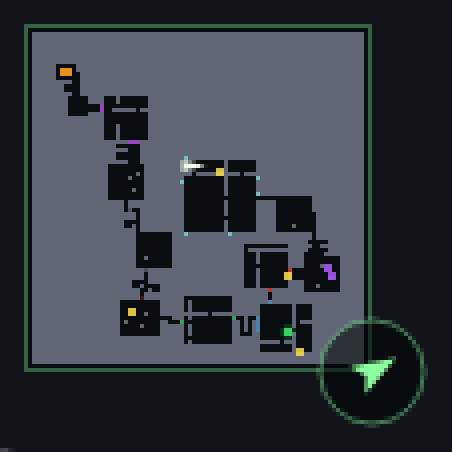
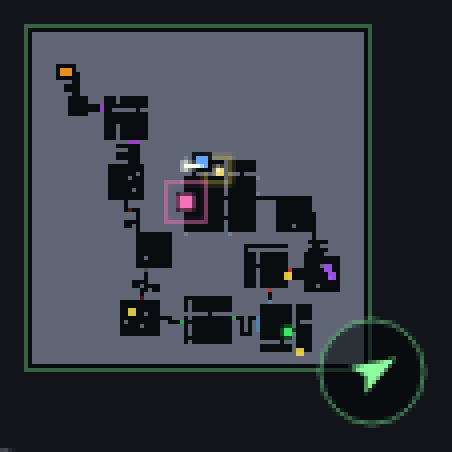
docs(coop): document the help ping and teammate markers, close the notes item
Player docs: the `G`/`Y` binding in controls.md and README, two new bullets in
multiplayer.md, a teammate row in both map legends in colors-and-pickups.md,
and the distinction between the two kinds of minimap ping (a key ping is gold
and sits still on a key; a help ping is that player's colour and moves with
them) wherever the existing one is described.

The committed map screenshots now show the markers. They are captured from a
single-player engine, whose roster is only ever the viewer, so this adds a
`debugSpawnTeammate` staging hook alongside the existing debug* ones and poses
two teammates — one of them calling for help. Two things the first attempt got
wrong and are worth not repeating: the pair have to be staged far apart (the
fixture is 83 tiles wide, which puts the minimap at its 1px cell floor, and the
first run photographed one marker completely underneath the other), and the
grab has to be phase-locked, because the ring's alpha sawtooths to zero at the
end of every sweep and the first automap capture came back with no ring at all.

hud-and-ui.md said "Three warning toasts ... each on its own row"; nothing pins
that sentence, so nothing would have failed. The netcode spec's §6 gains the
counter-example section — every other entry there is about a signal that must
be stripped from the shared stream, and this is the one added to join it. The
game-state spec records why teammates are the single shared marker that is not
[…]

Changed region(s): [[0.3407, 0.3097, 0.5265, 0.4956]]

diff --git a/doc/dev/history.md b/doc/dev/history.md
@@ -11,6 +11,15 @@ That second category is why this file is kept rather than deleted. Most entries 
 
 Entries are newest-first, in the format the `notes` backlog uses. Nothing here is edited for hindsight — an entry that was wrong at the time stays wrong, with a later correction appended, so the reasoning trail survives intact.
 
+- [x] **Teammate map markers, and a hotkey to call for help (2026-08-23).** From `notes`: *"coop: give players a hotkey to trigger a map ping on themself, to get help. should last for some seconds."* The one-liner's premise had moved in both directions, which is the usual outcome for that section.
+  - **Half of it already existed.** `KEY_PING_FRAMES = 240` carries the comment *"the 'for some seconds' of the request"*, and the locked-door hint already had a sonar-ring renderer and an audible cue. The state shape, the ring, and the decay loop were all copied rather than invented.
+  - **The other half was missing at a level the request did not suspect: nothing drew teammates on either map at all.** `colorForPlayer` was documented as feeding "teammate billboards/minimap dots" and had exactly one caller — the 3D billboard. `sprites.ts` (twice), `multiplayer-game-state-spec.md` §5 and, worst, shipped `CHANGELOG.md:80` (*"the same colour your dot already has on the automap and minimap"*) all told players the dots existed. So the ping would have been a five-second workaround for a permanent gap. Persistent dots shipped first, with the ping as a loud transient state of the dot; the shipped changelog line was left alone and a new entry added rather than rewriting history.
+  - **No new wire message, and none was the right call.** The session is deterministic lockstep, so `helpPing` rides `InputSnapshot` exactly as `interact`/`reload` do and inherits ordering, spoof-proof identity, rate limiting and identical cross-peer timing. Host, guest, bundle and channel source files are untouched. A separate `reconciliation`-channel message would have needed its own `levelEpoch` guard, its own limiter, and would land on a different tick on each peer.
+  - **Two traps, both found by review rather than by running it.** (1) `consume*()` does not consume in multiplayer — `NetworkInputSource`'s methods are non-clearing reads, and `InputDelayBuffer.finalize()` re-delivers the previous snapshot verbatim on a missing packet, so one press arrives as `true` on every held-fallback tick. The cooldown alone does not hold: it expires at 480 frames and the siren would restart there forever. Fixed with a per-player false->true latch, and pinned by a test that holds the bit for 600 frames. (2) The arm has to run *before* `simulate()`'s `ablate`/pause/lore early returns, or a `G` pressed during any of them never clears in single-player and sticks `true` into every later `captureSnapshot()`.
+  - **The notice is a top-left chip, not a fourth centered toast row.** The 26/56/86 stack makes y=116 look free and it is not: `drawLockedDoorToast` is 42px tall whenever it carries its second line (~71% of doors, so the common case) and runs to y=128, `drawKillStreakToast` sits at y=112 at the shipped 640x400, and at `?renderRes=320x200` the HUD bar starts at 128. Caught by measuring rather than by the arithmetic.
+  - **Teammates are the one shared marker deliberately not fog-gated**, against the precedent the loot drops set one section earlier in the spec. A person is not level content, and the teammate you need to find is by definition the one somewhere you have not walked. Recorded in the spec so it reads as a decision.
+  - Smaller things worth knowing: the audible cue is an alternating two-tone square siren because a *low falling triangle* — the obvious choice — is already taken three times over, including by `playHit`, the most frequent sound in the game. Teammate dots get a dark surround because `PLAYER_COLORS` holds a green next to the exit marker's and an amber next to the key gold. And the two committed map screenshots needed a `debugSpawnTeammate` staging hook plus a phase-locked grab: the ring's alpha sawtooths to zero at the end of every sweep, and the first automap capture came back with the ring invisible. `[notes: coop map ping hotkey]`
+
 - [x] **A level that outguns you, sold as a co-op level (2026-08-22).** From `notes`: *"'sell' unclearable levels as 'come back in coop' in docs/tips"*. Docs only — one tip, one hedge, one multiplayer bullet, one stale spec paragraph.
 
   **The premise was right and the word was wrong, which changed what the tip says.** In this project's telemetry `unclearable` means `clearRatio combined < 1.0` — obtainable damage below total roster HP. That is *not* "cannot finish": `checkExit` gates only on `exitRoomHasAliveEnemy()`, so every enemy outside the exit room can be walked past, and `decisions.md`'s Elite finding already proved players do exactly that ("all 514 cleared runs on an Elite-bearing level left the Elite alive"). So the tip leads with the more useful half — *try the exit before assuming you are stuck* — and only then offers co-op.

diff --git a/doc/user/colors-and-pickups.md b/doc/user/colors-and-pickups.md
@@ -10,7 +10,7 @@ Everything here is fixed. It never changes with the level's styleset, the diffic
 
 The always-on panel in the corner. No fog-of-war: the layout is all there from the moment the level loads.
 
-![The corner minimap, with four gold key markers, an orange acid pool at the top left, violet teleporter pads, cyan lore terminals, coloured door tiles, the green exit at the bottom right, and the compass badge on its corner](img/minimap.png)
+![The corner minimap, with four gold key markers, an orange acid pool at the top left, violet teleporter pads, cyan lore terminals, coloured door tiles, the green exit at the bottom right, the compass badge on its corner, a blue teammate dot beside the white player triangle, and a pink teammate wrapped in a sweeping ring because they are calling for help](img/minimap.png)
 
 | What you see | Colour | Meaning |
 |---|---|---|
@@ -25,6 +25,8 @@ The always-on panel in the corner. No fog-of-war: the layout is all there from t
 | Lore terminal | pulsing cyan | stops pulsing once you've read it |
 | Exit | pulsing green | always visible, from the moment the level loads |
 | You | near-white triangle | the point of the triangle is the way you're facing |
+| Teammates | their own player colour, on a dark surround | multiplayer only; the same colour their name floats in above them in the world |
+| A teammate calling for help | their colour, brightened, with a sweeping ring | multiplayer only — see [Multiplayer](multiplayer.md) |
 | Enemies | their own body colour | gold Elite, cyan Edge Case — but only once spotted |
 
 Two of those will catch you out, so they're worth stating plainly:
@@ -33,7 +35,11 @@ Two of those will catch you out, so they're worth stating plainly:
 
 **A key marker is gold no matter which key it is.** All four colours show up identically here, so the panel tells you *where* a key is, not *which* one. The colour you're missing is on the HUD key pips, and on the door itself.
 
+The dark surround behind a teammate dot is doing real work: the player colours include a green very close to the exit marker's and an amber very close to the key gold, so the outline is what stops a person reading as a place you can walk to.
+
 Keys **ping** on the minimap: the marker brightens and a sonar ring sweeps out of it for a few seconds. Two things set that off — walking into a locked door you have no key for, and simply passing a room that still holds a key you can reach. "Reachable" means by walking distance, counting doors you already hold the key for. When the key you were asked for is itself locked away, the ping deliberately points at the key that unblocks it instead, so what pings is always somewhere you can go next.
+
+A teammate calling for help pings the same way but is never confusable with it: a key ping is gold and sits still on a key, a help ping is that player's own colour and moves with them, and it comes with a siren instead of the key ping's soft chime.
 
 ## Reading the automap
 
@@ -41,7 +47,7 @@ Keys **ping** on the minimap: the marker brightens and a sonar ring sweeps out o
 
 Structural things go greyscale here so the map doesn't fight the live game still rendering behind it; danger and goals keep their accent colours.
 
-![The Tab automap, drawn in greyscale over the live 3D view: the level's rooms and corridors in light grey, an orange acid pool at the top left, the gold player arrow in the middle, and red, blue and green locked-door tiles](img/automap.png)
+![The Tab automap, drawn in greyscale over the live 3D view: the level's rooms and corridors in light grey, an orange acid pool at the top left, the gold player arrow in the middle, red, blue and green locked-door tiles, a blue teammate dot next to the player and a pink teammate ringed because they are calling for help](img/automap.png)
 
 That shot is of a level that has been walked from end to end. Early on you'd see far less of it — and the game showing through behind is not an artefact of the picture: the automap really is translucent, and really does leave you able to walk and fight while it's up.
 
@@ -58,6 +64,7 @@ That shot is of a level that has been walked from end to end. Early on you'd see
 | Proximity mine | bright red `#ff5050` | |
 | Exit | green `#41ff6e` | once discovered |
 | You | warm gold `#ffd23f` | the one warm colour, so it never blends into terrain or accents |
+| Teammates | their own player colour, on a dark surround | multiplayer only; brightened and ringed while one is calling for help |
 
 The two differences from the corner minimap:
 

diff --git a/doc/dev/multiplayer-game-state-spec.md b/doc/dev/multiplayer-game-state-spec.md
@@ -623,6 +623,38 @@ document's own §3 prerequisite: `visited` staying a single shared structure is 
 fewer piece of state that needs to become "per player" alongside `Player`/health/
 ammo/weaponIndex.
 
+### Teammate markers, and why they are *not* fog-gated
+
+Shipped after the loot drops above and deliberately on the opposite rule, so the
+inconsistency is a decision rather than an oversight.
+
+`renderMinimap` and `drawAutomap` each take a `TeammateMapMarker[]`
+(`sprites.ts`) — position, that player's `colorForPlayer` colour, and whether
+their coop help ping is live. Same call-site gating discipline as the loot drops:
+the renderers stay roster-unaware, and `collectTeammateMapMarkers` needs no
+`isMultiplayerSession()` check of its own because single-player's roster is only
+ever the viewer, who is skipped, so it returns `[]` naturally.
+
+**They are drawn regardless of `map.visited`.** Every other multiplayer-shared
+marker on these panels is fog-gated, for the reason set out above: a marker in an
+unvisited room leaks the *level*. A teammate is not level content. Their dot says
+where a person is standing and nothing whatsoever about the tiles around them,
+they are already visible in the 3D view with a name label above them, and the
+entire purpose of putting a team on a map is answering "where is everybody" —
+which a fog gate would defeat precisely when it matters, since the teammate you
+need to find is by definition the one somewhere you have not been.
+
+The colour is `colorForPlayer`'s, the same one the 3D billboard and name label
+use, which is what finally makes `sprites.ts`' long-standing "reused for their
+automap/minimap dot too" comment true. Every dot is drawn on a dark surround:
+`PLAYER_COLORS` contains a green adjacent to the exit marker's and an amber
+adjacent to the key gold and the automap's own player arrow, so hue alone cannot
+carry "person, not place".
+
+The help ping itself (`InputSnapshot.helpPing`, `RaycasterEngine.armHelpPings`)
+is specified in `multiplayer-netcode-spec.md` §6 — it is an input-stream
+question, not a visibility one.
+
 ### Not addressed here, on purpose
 
 Whether a `weapon`-kind drop should get a visually distinct marker from an ammo
@@ -798,8 +830,9 @@ billboard pass** (a new `collectPlayerBillboards` alongside the enemy/item
 collectors — occlusion via the zBuffer comes free). The local player is the
 camera and is never billboarded. HUD, viewmodel, crosshair targeting, and the
 automap/minimap player *marker* are strictly local-player; teammates appear on
-minimap/automap as distinct-colored markers (team-shared knowledge, same spirit
-as §5). Audio stays local-perspective; remote players' shots may play sounds
+minimap/automap as distinct-colored markers (team-shared knowledge — see §5's
+"Teammate markers" subsection, which also records why these are the one shared
+marker that is *not* fog-gated). Audio stays local-perspective; remote players' shots may play sounds
 (cosmetic, `Math.random` pitch variance stays fine — it never feeds the sim).
 `damage()`'s own hit SFX is the one deliberate exception to "local-perspective
 means everyone hears everything": it's scoped to whoever the local peer is

diff --git a/doc/user/hud-and-ui.md b/doc/user/hud-and-ui.md
@@ -22,7 +22,7 @@ If you enter a cheat code, a badge appears here and stays for the rest of the ca
 
 A second badge, in amber, counts the **rollbacks** your run has left (see [Dying](mechanics.md#dying)); it disappears once you've spent them all, since a bar reading "0 rollbacks" is just noise — so on Hard, which gets none, it never appears. If a run somehow has both — cheats entered *and* rollbacks in hand — the two stack rather than overlapping, with the rollback count sitting above the cheat warning.
 
-Three warning toasts share the top of the screen, each on its own row so they never cover each other when more than one fires at once: "Out of ammo!" on the first, "Memory leak — acid rising!" on the second, and "You need the red key!" — walking into a key-locked door empty-handed — on the third, naming the colour you're missing and drawn in that door's own colour.
+Three warning toasts share the top of the screen, each on its own row so they never cover each other when more than one fires at once: "Out of ammo!" on the first, "Memory leak — acid rising!" on the second, and "You need the red key!" — walking into a key-locked door empty-handed — on the third, naming the colour you're missing and drawn in that door's own colour. A fourth message, "<name> NEEDS HELP", sits on its own under the minimap in the top-left rather than joining that stack — see [Multiplayer](multiplayer.md).
 
 ## Minimap & Compass
 
@@ -31,6 +31,8 @@ An always-on minimap sits in the corner, showing the full layout of the current 
 Every colour on this panel is listed in [Colours & Pickups](colors-and-pickups.md#reading-the-corner-minimap) — including the two that surprise people: acid reads orange here but green in the world, and an uncollected key is gold whichever key it is.
 
 Walking into a key-locked door with no key **pings** a key here for a few seconds: its marker brightens and a sonar ring sweeps outward from it, with a soft ping per beat, so you can tell which of several uncollected keys the game is pointing you at. **It always points at something you can actually get to.** If the key you asked for is behind another locked door — which it often is, because keys come in a chain — it pings the key that unblocks it instead, and the banner names that colour. The ring is clipped to the panel, so a key near an edge doesn't sweep out over the view.
+
+In multiplayer the panel also shows your teammates, each a dot in their own colour, and a **second kind of ping**: when somebody presses `G` to call for help, *their* dot brightens and sweeps a ring in their own colour, with a siren rather than the key ping's soft chime and a banner naming them under the panel. Two things tell them apart at a glance — a key ping is always gold and always sits on a key, a help ping is whatever colour that player is and moves with them.
 
 ## Automap
 

diff --git a/CHANGELOG.md b/CHANGELOG.md
@@ -2,6 +2,8 @@
 
 ## Unreleased
 
+- New: **you can see your team on the map, and shout for help.** In multiplayer every teammate is now a dot on your minimap and automap, in the same colour their name floats in above them in the world — which is what the game has been telling you for a while and, until now, was not actually true anywhere. Pressing `G` (or `Y` on a pad) calls for help: your dot lights up on everyone else's map for about five seconds, sweeping a sonar ring in your colour, with a siren and a banner naming you under their minimap. The marker **follows you**, so it still points at you if you are being chased rather than at the spot you pressed it, and there is roughly an eight-second wait before you can call again. Teammates are the one thing on the automap fog of war does not hide — the whole point is finding somebody in a part of the level you have not walked yet. Nothing changes in single-player, where the key does nothing
+
 - Fixed: **text on the pop-up screens is no longer squashed to fit.** The Kernel Panic, Build Successful, briefing and summary boxes were a fixed width, and any line too long for one was squeezed narrower rather than given more room — so the death screen that offers you a rollback, whose lines are the longest in the game, rendered them noticeably compressed against the edges of the box. The boxes now grow to whatever their text actually needs, up to the width of the window. Screens whose text already fitted look exactly as they did
 
 - New: **the death screen now has an opinion about cheating.** The HUD has always stamped a warning on a run once you use one of the cheat codes, so you know the score will not be recorded — but the Kernel Panic screen itself said exactly the same thing to a cheating player as to anyone else. Die with a cheat behind you and it now has one extra line for you. You will have to earn it. The screen is untouched for everyone else, the line stays out of the way when the death is one you can roll back from, and nothing about how the game plays or scores has changed

diff --git a/doc/dev/multiplayer-netcode-spec.md b/doc/dev/multiplayer-netcode-spec.md
@@ -1163,6 +1163,35 @@ too — no role-based exception.
   reasonable UX nicety. Not specifying it as a requirement — silently having no
   effect is a complete, correct fix on its own; the toast is polish.
 
+### `helpPing` is the deliberate counter-example
+
+Everything above this heading is about signals that must be **stripped** before
+they reach the shared stream. The coop help ping (`InputSnapshot.helpPing`, bound
+to `G`) is the one flag added specifically so it would be shared, and it is worth
+naming here so a future pass tidying up "local-looking" inputs does not neutralize
+it by analogy.
+
+It rides `InputSnapshot` for the same reason `interact` and `reload` do: the
+session is deterministic lockstep, so a flag in the tick bundle reaches every peer
+with ordering, spoof-proof identity and identical timing already solved, and needs
+no message type, no `levelEpoch` guard and no rate limiter of its own.
+`LocalInputSampler` therefore drains it in the *shared* group, not the
+neutralized-to-false group, and `isValidInputSnapshot` validates it like every
+other boolean.
+
+Two consequences the implementation depends on, both documented at
+`RaycasterEngine.armHelpPings`:
+
+- **It has no `p.id === this.localPlayerId` gate**, unlike `cueLockedDoorHint` and
+  `cueNearbyKeyHint`. Those exist to stop a teammate's private hint appearing on
+  your screen; this one exists to do exactly that on purpose.
+- **It is edge-latched on a false->true transition rather than read directly.**
+  `NetworkInputSource.consume*()` are non-clearing reads of the current frame, and
+  `InputDelayBuffer.finalize()` re-delivers the previous snapshot verbatim on a
+  missing packet — so one press arrives as `helpPing: true` on every held-fallback
+  tick that follows it. Any future one-shot input added to this struct inherits
+  that hazard and needs the same latch.
+
 ## 7. Level transitions
 
 Flagged as ordinary feature work in `multiplayer-research.md` ("when one player

diff --git a/doc/user/multiplayer.md b/doc/user/multiplayer.md
@@ -37,6 +37,8 @@ Open the **Multiplayer** tab, then the **Join** sub-tab, type in the code you we
 - **Elite enemies scale with your team size.** The more players in the session, the tougher Elite enemies get (more HP, more damage) — a solo Elite fight doesn't get any harder, but a 4-player one does.
 - **More guns on the same level.** Everyone who joins arrives with their own weapons and their own starting ammunition, while the level's own pickups stay the single pile they always were and the ordinary roster doesn't grow with the team. On a level whose ammunition doesn't stretch to everything that spawned, that arithmetic is the whole reason to bring people — the Elites above are the one thing pulling the other way.
 - **Loot is shared.** Anything an Elite or regular enemy drops is visible to the whole team on the minimap and automap, not just whoever's standing next to it.
+- **You can see each other on the maps.** Every teammate is a dot on your minimap and automap, in the same colour their name floats in above them in the world. Unlike everything else on the automap, teammates aren't hidden by fog of war — you can see where somebody is even in a part of the level you haven't walked yet.
+- **You can call for help.** Press `G` (or `Y` on a pad) and your dot lights up on everyone else's map for about five seconds: it brightens, a sonar ring sweeps out of it, a siren sounds, and a banner under their minimap names you. The marker follows you while it lasts, so it still points at you if you're running. There's roughly an eight-second wait before you can call again.
 
 ## If you can't connect
 

diff --git a/doc/user/controls.md b/doc/user/controls.md
@@ -27,6 +27,7 @@
 |---|---|
 | `R` | Reload the equipped weapon |
 | `F` | Read a nearby lore terminal, or open a fake wall to reveal a secret room |
+| `G` | **Multiplayer only** — call for help. Marks you on every teammate's minimap and automap for about five seconds, with a sonar ring, a siren and a banner naming you. About an eight-second wait before you can call again, and it does nothing in single-player |
 | `W` / `S` (while reading) | Scroll a lore terminal's text if it overflows the box |
 | `Tab` | Toggle the automap (does not pause — you can keep moving and fighting while it's open) |
 | `Alt`+`Enter` | Toggle fullscreen |
@@ -63,6 +64,7 @@ Standard Xbox-style layout:
 | R3 (right stick click) or B | Quick-melee |
 | X | Reload the equipped weapon |
 | A | Read a nearby lore terminal, or open a fake wall to reveal a secret room |
+| Y | Call for help (multiplayer only) — the same as `G` |
 | L3 (left stick click) | Sprint, held — the same 2× move speed as `Shift` |
 | Any button | Dismiss level-start/commit-summary/end overlays (after the 1.2s lock) |
 

diff --git a/README.md b/README.md
@@ -217,6 +217,7 @@ Commits follow [Conventional Commits](https://www.conventionalcommits.org/) with
 ### Interaction & Navigation
 - **R** — Reload the equipped weapon (also happens automatically when a magazine runs dry)
 - **F** — Read nearby lore terminal (hold W/S to scroll) OR open fake wall to reveal secret
+- **G** — Call for help (multiplayer only): marks you on every teammate's map for ~5s with a ring, a siren and a banner; ~8s cooldown
 - **Tab** — Toggle automap (non-blocking — keep moving/fighting while open; only reveals explored areas)
 - **Alt+Enter** — Toggle fullscreen
 - **Esc** — Pause (freezes action under "PAUSED" overlay)
@@ -231,6 +232,7 @@ Commits follow [Conventional Commits](https://www.conventionalcommits.org/) with
 - **R3 or B** — Quick-melee
 - **X** — Reload
 - **A** — Read a lore terminal / open a fake wall
+- **Y** — Call for help (multiplayer only)
 - **L3 (left-stick click)** — Sprint, held (same 2× speed as `Shift`)
 - **Any button** — Dismiss level-start/commit-summary overlays (after ~1.2s lock)
 
